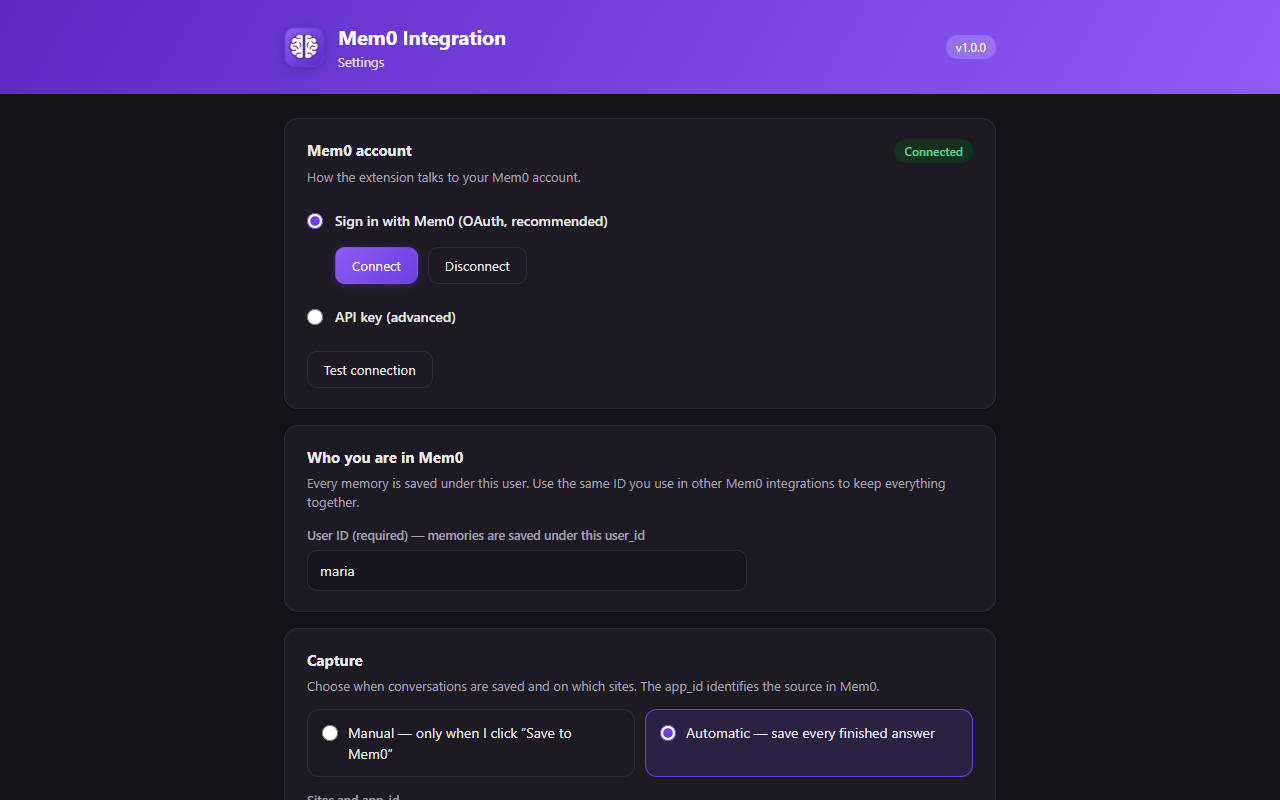
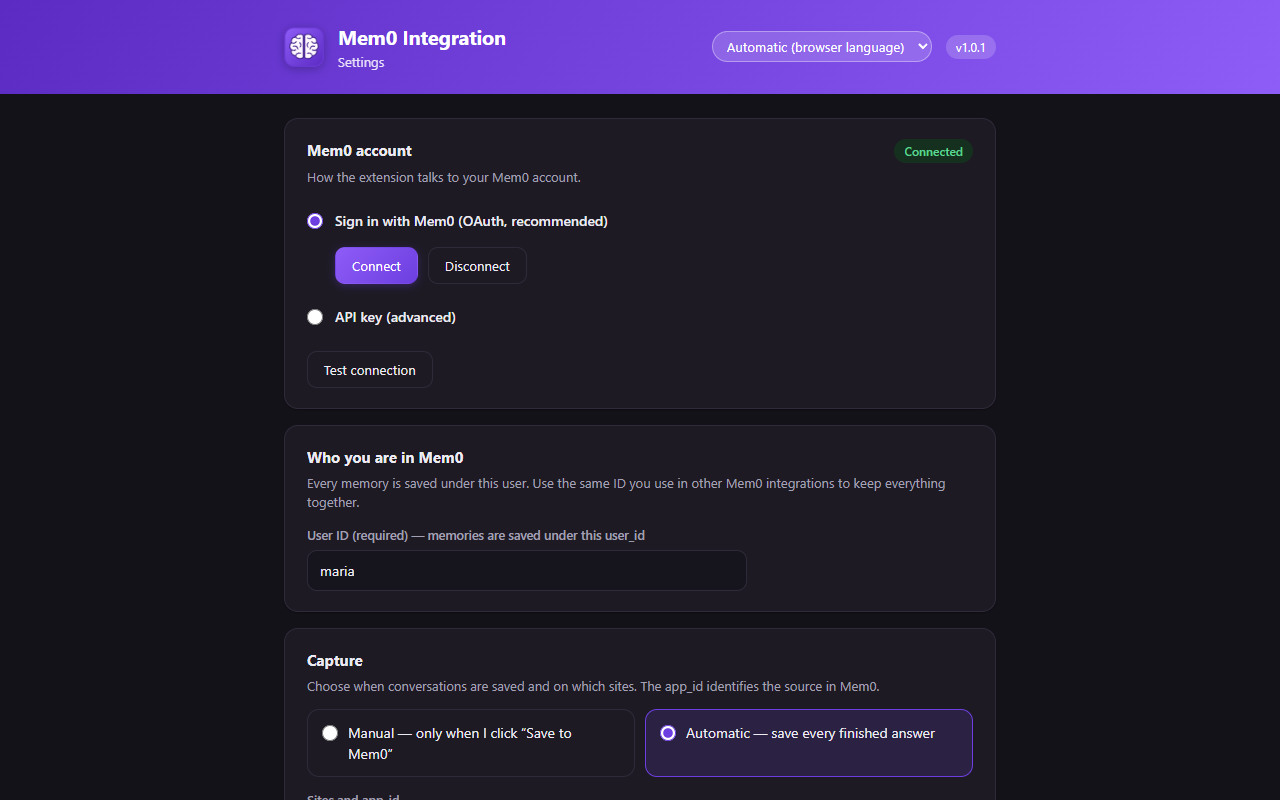
v1.0.1: escolha de idioma (Automático, Português (Brasil), English (US)) nas configurações; mensagens do service worker traduzidas

Changed region(s): [[0.5312, 0.0312, 0.75, 0.0938]]

diff --git a/src/background.js b/src/background.js
@@ -13,7 +13,7 @@ async function waitEvent(check) {
   await sleep(2000);
   while (Date.now() < until) {
     const o = eventOutcome(await check());
-    if (o.done) { if (o.failed) throw new Error(`Mem0 não processou: ${o.error}`); return o.memories; }
+    if (o.done) { if (o.failed) throw new Error(`Mem0: ${o.error}`); return o.memories; }
     await sleep(EVENT_POLL_MS);
   }
   return null;
@@ -28,9 +28,37 @@ const DEFAULTS = {
   sites: { chatgpt: true, gemini: true },
   appIds: { chatgpt: "chatgpt", gemini: "gemini" },
   redactSecrets: true,
-  instructions: null,         // null = instrução padrão no idioma do navegador
+  instructions: null,         // null = instrução padrão no idioma escolhido
+  language: "auto",           // "auto" (idioma do navegador) | "pt_BR" | "en"
 };
-const defaultInstructions = () => chrome.i18n.getMessage("defaultInstructions");
+
+// ---------- idioma ----------
+// chrome.i18n segue só o idioma do navegador; para o usuário poder escolher, as
+// mensagens de _locales são carregadas aqui e servidas às páginas e ao content script.
+const LANGS = ["pt_BR", "en"];
+const dictCache = {};
+function resolveLang(pref) {
+  if (LANGS.includes(pref)) return pref;
+  return (chrome.i18n.getUILanguage() || "").toLowerCase().startsWith("pt") ? "pt_BR" : "en";
+}
+async function dict(lang) {
+  if (!dictCache[lang]) {
+    const raw = await (await fetch(chrome.runtime.getURL(`_locales/${lang}/messages.json`))).json();
+    dictCache[lang] = Object.fromEntries(Object.entries(raw).map(([k, v]) => [k, v.message]));
+  }
+  return dictCache[lang];
+}
+async function currentLang() {
+  const { settings } = await chrome.storage.local.get("settings");
+  return resolveLang((settings || {}).language);
+}
+async function T(key, ...args) {
+  const d = await dict(await currentLang());
+  let s = d[key] || (await dict("en"))[key] || key;
+  args.forEach((a, i) => { s = s.replace(`$${i + 1}`, a); });
+  return s;
+}
+const defaultInstructions = async (lang) => (await dict(lang || await currentLang())).defaultInstructions;
 const LOG_MAX = 30;
 const SENT_MAX = 500;
 
@@ -59,13 +87,19 @@ async function getSettings() {
   const { settings } = await chrome.storage.local.get("settings");
   const s = settings || {};
   return { ...DEFAULTS, ...s,
-    instructions: typeof s.instructions === "string" ? s.instructions : defaultInstructions(),
+    instructions: typeof s.instructions === "string" ? s.instructions : await defaultInstructions(resolveLang(s.language)),
     sites: { ...DEFAULTS.sites, ...(s.sites || {}) },
     appIds: { ...DEFAULTS.appIds, ...(s.appIds || {}) } };
 }
 async function setSettings(patch) {
   const s = await getSettings();
-  await chrome.storage.local.set({ settings: { ...s, ...patch } });
+  const next = { ...s, ...patch };
+  // trocou o idioma e a instrução era a padrão do idioma anterior: passa a usar a do novo
+  if (patch.language && resolveLang(patch.language) !== resolveLang(s.language)
+      && (next.instructions || "").trim() === ((await defaultInstructions(resolveLang(s.language))) || "").trim()) {
+    next.instructions = null;
+  }
+  await chrome.storage.local.set({ settings: next });
 }
 async function getAuth() { return (await chrome.storage.local.get("auth")).auth || null; }
 async function setAuth(a) { await chrome.storage.local.set({ auth: a }); }
@@ -143,23 +177,23 @@ async function login() {
   });
   const back = await chrome.identity.launchWebAuthFlow({ url: url.toString(), interactive: true });
   const q = new URL(back).searchParams;
-  if (q.get("error")) throw new Error(`login recusado: ${q.get("error")}`);
-  if (q.get("state") !== state) throw new Error("login inválido (state não confere)");
+  if (q.get("error")) throw new Error(await T("errLoginRefused", q.get("error")));
+  if (q.get("state") !== state) throw new Error(await T("errLoginInvalid"));
   const t = await tokenRequest(meta, {
     grant_type: "authorization_code", code: q.get("code"), redirect_uri: redirectUri,
     client_id: auth.clientId, code_verifier: verifier, resource: MCP_ISSUER,
   });
   auth = storeTokens(auth, t);
   await setAuth(auth);
-  await addLog({ status: "ok", site: "-", preview: "Conectado ao Mem0 (OAuth)" });
+  await addLog({ status: "ok", site: "-", preview: await T("logConnected") });
   return true;
 }
 
 async function accessToken() {
   let auth = await getAuth();
-  if (!auth || !auth.accessToken) throw new Error("não conectado ao Mem0: abra as opções e clique em Conectar");
+  if (!auth || !auth.accessToken) throw new Error(await T("errNotConnected"));
   if (Date.now() < auth.expiresAt) return auth.accessToken;
-  if (!auth.refreshToken) throw new Error("sessão do Mem0 expirou: conecte de novo");
+  if (!auth.refreshToken) throw new Error(await T("errSessionExpired"));
   const t = await tokenRequest(await oauthMeta(), {
     grant_type: "refresh_token", refresh_token: auth.refreshToken,
     client_id: auth.clientId, resource: MCP_ISSUER,
@@ -197,7 +231,7 @@ async function mcpPost(token, sessionId, payload) {
     // detalhe para diagnóstico: corpo e www-authenticate (ex.: insufficient_scope), sem o token
     const why = [r.headers.get("www-authenticate"), text.replace(/\s+/g, " ").slice(0, 160)].filter(Boolean).join(" | ");
     const step = payload.method || "?";
-    if (r.status === 401) throw new Error(`Mem0 recusou o login (401, ${step}): conecte de novo. ${why}`);
+    if (r.status === 401) throw new Error(`${await T("errUnauthorized")} (401, ${step}) ${why}`);
     throw new Error(`MCP ${step}: HTTP ${r.status} ${why}`);
   }
   return { sessionId: r.headers.get("Mcp-Session-Id") || sessionId,
@@ -234,7 +268,7 @@ async function addViaMcp(ex, settings) {
 }
 
 async function addViaRest(ex, settings) {
-  if (!settings.apiKey) throw new Error("chave de API não configurada");
+  if (!settings.apiKey) throw new Error(await T("errNoApiKey"));
   const r = await fetch(REST_ADD_URL, { method: "POST",
     headers: { "Content-Type": "application/json", Authorization: `Token ${settings.apiKey}` },
     body: JSON.stringify(restBody(ex, settings)) });
@@ -255,8 +289,8 @@ async function save(raw, { manual }) {
   if (!settings.sites[raw.site]) return { status: "skipped", reason: "site desativado" };
   if (!manual && settings.mode !== "auto") return { status: "skipped", reason: "modo manual" };
   if (!settings.userId.trim()) {
-    await addLog({ status: "error", site: raw.site, preview: "Configure o usuário (user_id) nas opções" });
-    return { status: "error", error: "usuário não configurado" };
+    await addLog({ status: "error", site: raw.site, preview: await T("errNeedUserLog") });
+    return { status: "error", error: await T("errNeedUserLog") };
   }
   if (!raw.user || !raw.assistant) return { status: "skipped", reason: "conversa incompleta" };
   const ex = prepareExchange(raw, { redactSecrets: settings.redactSecrets });
@@ -285,12 +319,12 @@ async function testConnection() {
   const settings = await getSettings();
   if (settings.authMode === "apikey") {
     const r = await fetch("https://api.mem0.ai/v1/entities/", { headers: { Authorization: `Token ${settings.apiKey}` } });
-    if (!r.ok) throw new Error(`chave recusada: HTTP ${r.status}`);
-    return "Chave de API válida.";
+    if (!r.ok) throw new Error(`${await T("errKeyRefused")}: HTTP ${r.status}`);
+    return T("testKeyOk");
   }
   const s = await mcpSession();
   const { tools = [] } = await s.call("tools/list", {});
-  return `Conectado: ${tools.length} ferramentas do Mem0 disponíveis.`;
+  return T("testMcpOk", String(tools.length));
 }
 
 chrome.runtime.onMessage.addListener((msg, _sender, reply) => {
@@ -298,7 +332,8 @@ chrome.runtime.onMessage.addListener((msg, _sender, reply) => {
     switch (msg.type) {
       case "save": return save(msg.exchange, { manual: !!msg.manual });
       case "diag": await chrome.storage.session.set({ [`diag_${msg.data.site}`]: msg.data }); return { ok: true };
-      case "defaultInstructions": return { text: defaultInstructions() };
+      case "defaultInstructions": return { text: await defaultInstructions() };
+      case "i18n": { const lang = await currentLang(); return { lang, messages: await dict(lang) }; }
       case "getDiag": return chrome.storage.session.get(["diag_chatgpt", "diag_gemini"]);
       case "getState": return { settings: await getSettings(), auth: !!(await getAuth())?.accessToken,
         log: (await chrome.storage.local.get("log")).log || [] };

diff --git a/src/popup.js b/src/popup.js
@@ -2,19 +2,20 @@ const $ = (id) => document.getElementById(id);
 const msg = (m) => chrome.runtime.sendMessage(m);
 
 async function load() {
+  await window.i18nReady;
   const { settings: s, auth, log } = await msg({ type: "getState" });
   $("enabled").checked = s.enabled;
   const how = s.authMode === "apikey" ? "API key" : auth ? "OAuth ✓" : "OAuth ✗";
-  $("who").textContent = s.userId ? `user_id: ${s.userId} · ${how} · ${s.mode}` : chrome.i18n.getMessage("needUser");
+  $("who").textContent = s.userId ? `user_id: ${s.userId} · ${how} · ${s.mode}` : window.tr("needUser");
   const ul = $("log");
   ul.replaceChildren();
-  if (!log.length) { const li = document.createElement("li"); li.className = "muted"; li.textContent = chrome.i18n.getMessage("popEmpty"); ul.append(li); }
+  if (!log.length) { const li = document.createElement("li"); li.className = "muted"; li.textContent = window.tr("popEmpty"); ul.append(li); }
   for (const e of log.slice(0, 12)) {
     const li = document.createElement("li");
     const time = new Date(e.at).toLocaleString([], { dateStyle: "short", timeStyle: "short" });
     const mark = { error: "✗", none: "–", pending: "…" }[e.status] || "✓";
     li.className = e.status === "error" ? "err" : e.status === "none" || e.status === "pending" ? "muted" : "";
-    const note = e.status === "none" ? chrome.i18n.getMessage("logNothing") + " · " : "";
+    const note = e.status === "none" ? window.tr("logNothing") + " · " : "";
     li.textContent = `${mark} ${time} · ${e.site} · ${note}${e.preview}`;
     ul.append(li);
   }
@@ -26,7 +27,7 @@ $("diagBtn").onclick = async () => {
   out.hidden = false;
   const d = await msg({ type: "getDiag" });
   const items = Object.values(d || {}).sort((x, y) => (y.at || "").localeCompare(x.at || ""));
-  if (!items.length) { out.textContent = chrome.i18n.getMessage("diagNoTab"); return; }
+  if (!items.length) { out.textContent = window.tr("diagNoTab"); return; }
   out.textContent = items.map((r) => Object.entries(r)
     .map(([k, v]) => `${k}: ${typeof v === "object" ? JSON.stringify(v) : v}`).join("\n")).join("\n\n");
   navigator.clipboard?.writeText(out.textContent).catch(() => {});

diff --git a/src/options.js b/src/options.js
@@ -1,9 +1,12 @@
 const $ = (id) => document.getElementById(id);
 const msg = (m) => chrome.runtime.sendMessage(m);
-const t = (k) => chrome.i18n.getMessage(k);
+const t = (k) => window.tr(k);
 
 async function load() {
+  await window.i18nReady;
   const { settings: s, auth } = await msg({ type: "getState" });
+  $("language").value = s.language || "auto";
+  $("userId").placeholder = t("userIdPlaceholder");
   document.querySelector(`input[name=auth][value=${s.authMode}]`).checked = true;
   document.querySelector(`input[name=mode][value=${s.mode}]`).checked = true;
   $("apiKey").value = s.apiKey || "";
@@ -37,7 +40,7 @@ function collect() {
 }
 
 function show(el, r, okText) {
-  el.textContent = r && r.ok !== false ? (okText || r.message || "OK") : (r && r.error) || "erro";
+  el.textContent = r && r.ok !== false ? (okText || r.message || "OK") : (r && r.error) || t("errGeneric");
   el.className = "note " + (r && r.ok !== false ? "ok" : "err");
 }
 
@@ -61,6 +64,12 @@ $("connect").onclick = async () => {
     b.disabled = false;
     load();
   }
+};
+$("language").onchange = async () => {
+  // salva o idioma (e o resto do formulário) e recarrega a página já traduzida
+  await msg({ type: "setSettings", patch: { ...collect(), language: $("language").value,
+    instructions: $("instructions").value.trim() } });
+  location.reload();
 };
 $("restoreInstr").onclick = async () => { $("instructions").value = (await msg({ type: "defaultInstructions" })).text; };
 $("disconnect").onclick = async () => { await msg({ type: "logout" }); load(); };

diff --git a/src/content.js b/src/content.js
@@ -126,7 +126,9 @@
   const site = Object.keys(ADAPTERS).find((k) => ADAPTERS[k].match.test(location.hostname));
   if (!site) return;
   const A = ADAPTERS[site];
-  const t = (k, fb) => (chrome.i18n && chrome.i18n.getMessage(k)) || fb;
+  // mensagens no idioma escolhido nas configurações (vêm do service worker)
+  let MSG = {};
+  const t = (k, fb) => MSG[k] || (chrome.i18n && chrome.i18n.getMessage(k)) || fb;
 
   // ---------- botão flutuante (Shadow DOM: não herda nem quebra o CSS do site) ----------
   const host = document.createElement("div");
@@ -165,7 +167,7 @@
     </button>`;
   const btn = root.getElementById("b");
   const lbl = root.getElementById("l");
-  const LABEL = t("btnSave", "Salvar no Mem0");
+  let LABEL = t("btnSave", "Salvar no Mem0");
   lbl.textContent = LABEL;
   document.documentElement.appendChild(host);
   const raise = () => { try { if (host.isConnected && !host.matches(":popover-open")) host.showPopover(); } catch { /* sem Popover API */ } };
@@ -290,6 +292,11 @@
 
   async function loadSettings() {
     try { settings = (await chrome.runtime.sendMessage({ type: "getState" })).settings; } catch { /* SW dormindo */ }
+    try {
+      MSG = (await chrome.runtime.sendMessage({ type: "i18n" })).messages || {};
+      LABEL = t("btnSave", "Salvar no Mem0");
+      if (!btn.className) lbl.textContent = LABEL;
+    } catch { /* mantém o idioma do navegador */ }
     refresh();
   }
   chrome.storage.onChanged.addListener((c) => { if (c.settings) loadSettings(); });

diff --git a/src/i18n.js b/src/i18n.js
@@ -1,5 +1,14 @@
-// Preenche [data-i18n] com as mensagens de _locales
-for (const el of document.querySelectorAll("[data-i18n]")) {
-  const m = chrome.i18n.getMessage(el.dataset.i18n);
-  if (m) el.textContent = m;
-}
+// Traduz a página com o idioma escolhido nas configurações (ou o do navegador).
+// Expõe window.tr(chave) e window.i18nReady para os scripts da página.
+window.tr = (k) => chrome.i18n.getMessage(k) || k;
+window.i18nReady = (async () => {
+  try {
+    const { lang, messages } = await chrome.runtime.sendMessage({ type: "i18n" });
+    window.tr = (k) => messages[k] || chrome.i18n.getMessage(k) || k;
+    document.documentElement.lang = lang === "pt_BR" ? "pt-BR" : "en-US";
+  } catch { /* fica com chrome.i18n */ }
+  for (const el of document.querySelectorAll("[data-i18n]")) {
+    const m = window.tr(el.dataset.i18n);
+    if (m) el.textContent = m;
+  }
+})();

diff --git a/src/options.html b/src/options.html
@@ -6,6 +6,11 @@
   <div class="wrap topbar-in">
     <img src="../icons/icon48.png" width="40" height="40" alt="">
     <div class="titles"><h1 data-i18n="optHeading"></h1><span data-i18n="optTitle"></span></div>
+    <select id="language" class="lang-select" aria-label="Idioma / Language">
+      <option value="auto" data-i18n="langAuto"></option>
+      <option value="pt_BR">Português (Brasil)</option>
+      <option value="en">English (US)</option>
+    </select>
     <span class="version" id="version"></span>
   </div>
 </header>

diff --git a/src/ui.css b/src/ui.css
@@ -80,3 +80,5 @@ pre.diag{white-space:pre-wrap;font-size:11px;background:var(--card);border:1px s
 .pop-actions .btn{padding:7px 12px;font-size:12px}
 .textarea{max-width:none;resize:vertical;min-height:120px;line-height:1.45;font-size:13px}
 .small-btn{padding:6px 10px;font-size:12px}
+.lang-select{font:600 12.5px inherit;font-family:inherit;color:#fff;background:rgba(255,255,255,.16);border:1px solid rgba(255,255,255,.35);border-radius:999px;padding:5px 10px;cursor:pointer}
+.lang-select option{color:#1d1b26;background:#fff}

diff --git a/store/LISTING.md b/store/LISTING.md
@@ -39,6 +39,7 @@ Como funciona
 • Modo automático: cada resposta concluída é enviada ao Mem0, que guarda só os fatos relevantes sobre você. Quando não há nada a guardar, o botão apenas pisca em cinza.
 • Modo manual: só salva quando você clica.
 • Filtro de memórias editável: diga ao Mem0 o que vale lembrar e o que ignorar (por padrão, ignora cálculos, saudações e perguntas pontuais).
+• Interface em português (Brasil) e inglês (EUA).
 
 Sua conta, seus dados
 • Entre com a sua conta Mem0 (OAuth oficial do Mem0) ou use uma chave de API.
@@ -69,6 +70,7 @@ How it works
 • Automatic mode: every finished answer is sent to Mem0, which keeps only the relevant facts about you. When there is nothing worth keeping, the button just blinks grey.
 • Manual mode: saves only when you click.
 • Editable memory filter: tell Mem0 what to remember and what to ignore (by default it skips calculations, greetings and one-off questions).
+• Interface in English (US) and Portuguese (Brazil).
 
 Your account, your data
 • Sign in with your Mem0 account (official Mem0 OAuth) or use an API key.

diff --git a/README.md b/README.md
@@ -10,6 +10,7 @@ Extensão para **Edge e Chrome** (Manifest V3) que salva suas conversas do **Cha
 - Modo **manual** (padrão: só salva quando você clica) ou **automático** (salva toda resposta concluída).
 - Envia a última troca (sua pergunta + a resposta) com `user_id` configurável, `app_id` por site (padrão `chatgpt` / `gemini`) e metadados (`site`, `conversation_id`, `url`). O Mem0 extrai os fatos; a conversa inteira não é guardada.
 - Oculta segredos óbvios antes de enviar (chaves de API, tokens, JWT, chaves privadas, números de cartão). Pode desligar.
+- Interface em **Português (Brasil)** e **English (US)**: segue o idioma do navegador ou o que você escolher no topo da tela de Configurações.
 - Não envia a mesma troca duas vezes. Histórico das últimas 30 ações no ícone, com "!" vermelho quando algo falha.
 
 ## Autenticação
